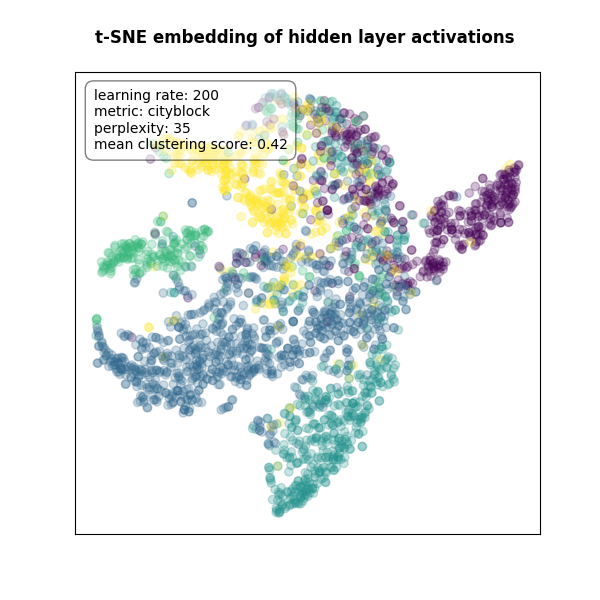
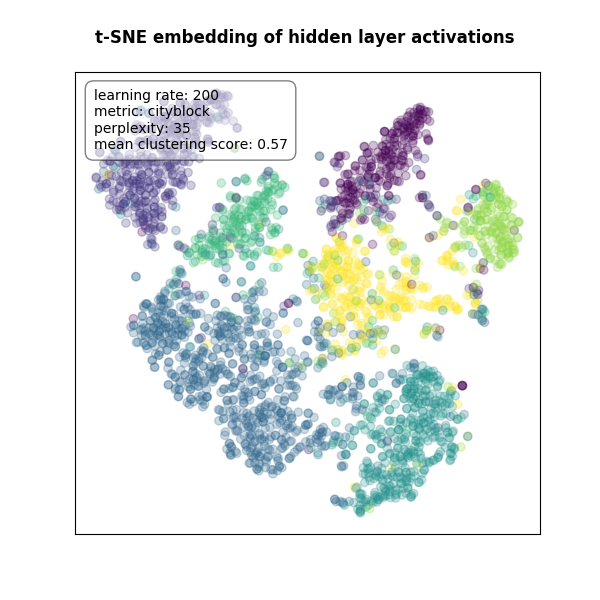
updated gcn

Changed region(s): [[0.15, 0.15, 0.87, 0.87]]

diff --git a/gcn.py b/gcn.py
@@ -32,7 +32,7 @@ from dgl.data import citation_graph as citegrh
 from tqdm import tqdm
 
 from sklearn.manifold import TSNE
-from sklearn.model_selection import ParameterGrid
+from sklearn.model_selection import ParameterGrid, StratifiedShuffleSplit
 from sklearn import metrics
 from sklearn.cluster import KMeans
 
@@ -130,31 +130,60 @@ n_epochs = 300
 num_train = list(mask.numpy()).count(1)
 print("Part of train data: {}%".format(int((num_train/2708)*100)))
 
-# store info
-hidden_activations = []
-pred_labels = []
-loss = []
 
 # train
-with tqdm(range(n_epochs), unit='epoch') as t:
-    for epoch in t:
-        logits, hidden = net(g, features)
-        logp = F.log_softmax(logits, 1)
-        loss_train = F.nll_loss(logp[mask], labels[mask])
-        loss_test = F.nll_loss(logp[~mask], labels[~mask])
+def train(train_part):
+    # store info
+    hidden_activations_total = []
+    pred_labels_total = []
+    loss_total = []
+    acc_total = []
 
-        optimizer.zero_grad()
-        loss_train.backward()
-        optimizer.step()
+    # shuffle split and taking imbalance into account
+    sss = StratifiedShuffleSplit(n_splits=5, test_size=train_part, random_state=0)
 
-        # append activations and predicted labels
-        hidden_activations.append(hidden.detach().numpy())
-        pred_labels.append(np.argmax(logits.detach().numpy(), axis=1))
+    for mask_, _ in tqdm(sss.split(features, labels), desc='Training', unit='shuffle', leave=False):
 
-        # update description and store test loss
-        t.set_description("Train Loss {:.4f} | Test Loss {:.4f}".format(loss_train.item(), loss_test.item()))
-        loss.append(loss_test.item())
+        with tqdm(range(n_epochs), unit='epoch') as t:
+            # store info
+            hidden_activations_ = []
+            pred_labels_ = []
+            loss_ = []
+            acc_ = []
 
+            for _ in t:
+                logits, hidden = net(g, features)
+                logp = F.log_softmax(logits, 1)
+                loss_train = F.nll_loss(logp[mask_], labels[mask_])
+                loss_test = F.nll_loss(logp[~mask_], labels[~mask_])
+
+                optimizer.zero_grad()
+                loss_train.backward()
+                optimizer.step()
+
+                # append activations and predicted labels
+                hidden_activations_.append(hidden.detach().numpy())    # activations
+                pred = np.argmax(logits.detach().numpy(), axis=1)
+                pred_labels_.append(pred)    # predictions
+                pred_test = np.argmax(logits[~mask_].detach().numpy(), axis=1)
+                acc_.append(metrics.balanced_accuracy_score(labels[~mask_].numpy(), pred_test))    # accuracy
+
+                # update description and store test loss
+                t.set_description("Train Loss {:.4f} | Test Loss {:.4f}".format(loss_train.item(), loss_test.item()))
+                loss_.append(loss_test.item())
+
+            # save info
+            hidden_activations_total.append(hidden_activations_)
+            pred_labels_total.append(pred_labels_)
+            loss_total.append(loss_)
+            acc_total.append(acc_)
+
+    return np.mean(np.array(hidden_activations_total), axis=0), \
+           np.around(np.mean(np.array(pred_labels_total), axis=0)), np.mean(np.array(loss_total), axis=0), \
+           np.mean(np.array(acc_total), axis=0)
+
+
+hidden_activations, pred_labels, loss, acc = train(0.05)
 
 ########################################################################################################################
 # VISUALIZATION
@@ -164,7 +193,7 @@ plt.figure(figsize=(8, 6))
 
 # plot data
 plt.title('GCN test loss over epochs \n', size=12, weight='bold')
-plt.text(0.78, 0.875, 'dataset: Cora \noptimizer: Adam \ninitial lr: 1e-3 \nloss: NLL \ntest part: 5% ',
+plt.text(0.78, 0.875, 'dataset: Cora \noptimizer: Adam \ninitial lr: 1e-3 \nloss: NLL \ntrain part: 5% ',
          verticalalignment='center',
          transform=plt.gca().transAxes,
          bbox=dict(boxstyle="round,pad=0.6", edgecolor='black', facecolor='white', alpha=0.5))
@@ -172,6 +201,23 @@ plt.plot(np.arange(n_epochs), loss)
 plt.xlabel('epoch')
 plt.ylabel('test loss')
 plt.savefig(os.path.join(cur_dir, './plots/gcn_loss.png'))
+
+# clean up
+plt.close('all')
+
+# accuracy over epochs
+plt.figure(figsize=(8, 6))
+
+# plot data
+plt.title('GCN balanced test accuracy over epochs \n', size=12, weight='bold')
+plt.text(0.78, 0.875, 'dataset: Cora \noptimizer: Adam \ninitial lr: 1e-3 \nloss: NLL \ntrain part: 5% ',
+         verticalalignment='center',
+         transform=plt.gca().transAxes,
+         bbox=dict(boxstyle="round,pad=0.6", edgecolor='black', facecolor='white', alpha=0.5))
+plt.plot(np.arange(n_epochs), acc)
+plt.xlabel('epoch')
+plt.ylabel('test accuracy')
+plt.savefig(os.path.join(cur_dir, './plots/gcn_acc.png'))
 
 # clean up
 plt.close('all')
@@ -187,7 +233,7 @@ parameters = {'perplexity': [20, 35], 'learning_rate': [50, 125, 200],
 
 
 # helper functions
-def bench_k_means(estimator, name):
+def bench_k_means(estimator):
     # metrics
     metrs = [metrics.homogeneity_score, metrics.completeness_score, metrics.v_measure_score,
              metrics.adjusted_rand_score, metrics.adjusted_mutual_info_score]
@@ -205,7 +251,7 @@ def activations_vis(data, tsne_param, path):
     kmeans = KMeans(init='k-means++', n_clusters=7, n_init=10).fit(embedded_activations)
 
     # clustering scores
-    score = bench_k_means(kmeans, name="t-SNE")
+    score = bench_k_means(kmeans)
 
     # plot init
     plt.figure(figsize=(6, 6))
@@ -227,3 +273,34 @@ def activations_vis(data, tsne_param, path):
 # actual visualization for different t-SNE hyper-parameters
 for param in tqdm(ParameterGrid(parameters), desc='t-SNE hyper-parameter search'):
     activations_vis(hidden_activations_best, param, './plots/gcn_tsne/{}_{}_{}.png'.format(*param.values()))
+
+
+########################################################################################################################
+# CHECK DIFFERENT TRAIN/TEST SPLITS
+
+train_percentage = np.arange(5, 100, 5)
+
+with tqdm(train_percentage, desc='Train/Test split check', unit='percentage') as t:
+    acc_best = []
+    for p in t:
+        # train
+        _, _, _, cur_acc = train(p/100)
+        # append to accuracies
+        acc_best.append(np.max(cur_acc))
+
+# accuracy over epochs
+plt.figure(figsize=(8, 6))
+
+# plot data
+plt.title('Best test accuracy depending on train/test split \n', size=12, weight='bold')
+plt.text(0.78, 0.895, 'dataset: Cora \noptimizer: Adam \ninitial lr: 1e-3 \nloss: NLL',
+         verticalalignment='center',
+         transform=plt.gca().transAxes,
+         bbox=dict(boxstyle="round,pad=0.6", edgecolor='black', facecolor='white', alpha=0.5))
+plt.plot(train_percentage, acc_best)
+plt.xlabel('train part [%]')
+plt.ylabel('test accuracy')
+plt.savefig(os.path.join(cur_dir, './plots/gcn_split.png'))
+
+# clean up
+plt.close('all')
